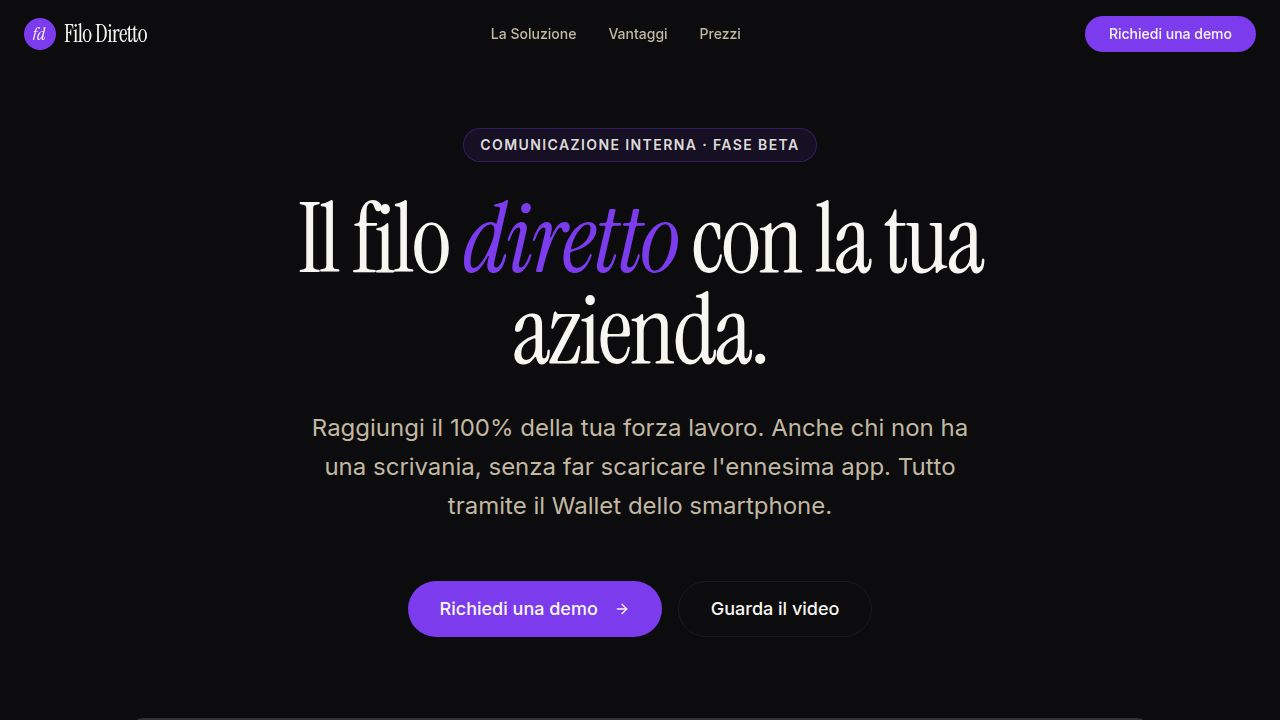
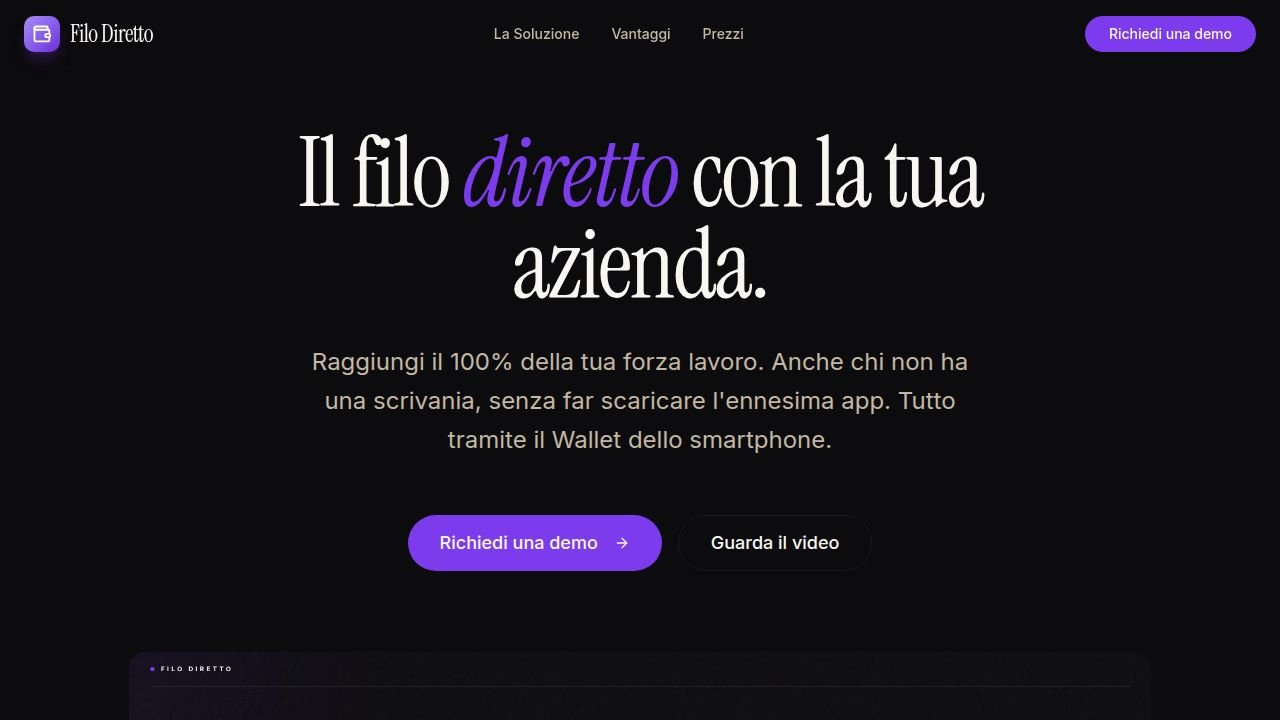
Optimize promotional video and refine consent form
Compress video file to improve loading times and remove unnecessary cookie policy from lead form.

Replit-Commit-Author: Agent
Replit-Commit-Session-Id: e233b0f5-c130-4c3f-b8c2-1a7d95bec6d9
Replit-Commit-Checkpoint-Type: full_checkpoint
Replit-Commit-Event-Id: 0f1d2427-d1de-43a2-881a-8eb35ff1baef
Replit-Commit-Screenshot-Url: https://storage.googleapis.com/screenshot-production-us-central1/c1100ccc-f9ff-4f4b-9f35-a641bddc139c/e233b0f5-c130-4c3f-b8c2-1a7d95bec6d9/hRL0qxZ
Replit-Helium-Checkpoint-Created: true

diff --git a/artifacts/filo-diretto-landing/src/components/landing/lead-form.tsx b/artifacts/filo-diretto-landing/src/components/landing/lead-form.tsx
@@ -250,15 +250,11 @@ export default function LeadForm() {
                 </FormControl>
                 <div className="space-y-1 leading-snug">
                   <label htmlFor="privacy-consent" className="text-sm text-muted-foreground">
-                    Ho letto e accetto la{" "}
+                    Ho letto la{" "}
                     <Link href="/privacy" className="text-primary underline underline-offset-2 hover:text-primary/80">
                       Privacy Policy
                     </Link>{" "}
-                    e la{" "}
-                    <Link href="/cookie" className="text-primary underline underline-offset-2 hover:text-primary/80">
-                      Cookie Policy
-                    </Link>
-                    , e acconsento al trattamento dei miei dati per essere ricontattato.
+                    e acconsento al trattamento dei miei dati per essere ricontattato.
                   </label>
                   <FormMessage />
                 </div>

diff --git a/artifacts/filo-diretto-landing/src/pages/home.tsx b/artifacts/filo-diretto-landing/src/pages/home.tsx
@@ -6,7 +6,7 @@ import LeadForm from "@/components/landing/lead-form";
 import Pricing from "@/components/landing/pricing";
 import Footer from "@/components/landing/footer";
 import Logo from "@/components/landing/logo";
-import promoVideo from "@assets/Filo_Diretto_def_1781470766344.mp4";
+import promoVideo from "@assets/filo-diretto-promo-web.mp4";
 import promoPoster from "@assets/filo-diretto-video-poster.jpg";
 
 const benefits = [

diff --git a/.agents/memory/filo-diretto-video.md b/.agents/memory/filo-diretto-video.md
@@ -1,34 +1,19 @@
 ---
-name: Filo Diretto / HR2Wallet promo video
-description: Brand + structural constraints for the filo-diretto-video artifact (animated HR SaaS explainer).
+name: Filo Diretto promo video
+description: What was checked when the user reported "il video non funziona", and the actual fix.
 ---
 
-The video promotes an HR SaaS ("Filo Diretto" wordmark) whose real marketing brand is **HR2Wallet** (site: hr2wallet.netlify.app). Italian-only audience.
+# Promo video "non funziona"
 
-**Brand to match (editorial style):** black #0A0A0A bg, cream #F4EDE2 text, electric purple #8B5CF6 / #7C3AED accent — NO teal. Display font **Anton** (big condensed headlines), body **Inter**. Magazine/editorial feel, restrained motion. Real concrete copy: "HR parla. Tutti leggono.", 95%+ lettura, zero app, push sulla lock screen, automazioni (compleanni/anniversari/reminder/quiz/survey), pass also works as QR/NFC badge.
-**Why:** the user rejected the first cut (teal + glowy "filo" thread + geometric sans) as off-brand and "grafica scarsa" with overlapping text; they want it aligned to the live site.
-**Naming decision:** keep the wordmark **"Filo Diretto"** (user chose this over "HR2Wallet") even though the site says HR2Wallet.
+The landing's promo `<video>` (in `home.tsx`, section `#soluzione`) is technically sound — repeated "doesn't work" reports were NOT a codec/delivery/markup bug:
 
-**Hard structural constraint — audio sync:** `composite_audio.mp3` is pre-mixed against `SCENE_DURATIONS` (keys/order/values) in VideoTemplate.tsx. Do NOT change scene keys/order/durations without re-mixing the composite (per video-js audio.md: adelay per scene-start+300ms, music vol 0.20). To shorten the WHOLE video (e.g. "accelera tutto, stai in ~80s") apply ONE global speed factor in lockstep across THREE things or it desyncs: (1) re-encode every vo_<scene>.mp3 with ffmpeg `atempo=<factor>` (pitch-preserving, keeps Paolo's voice — far simpler than re-TTS), (2) divide each SCENE_DURATIONS value by the factor, (3) divide every per-scene `setTimeout` phase gate AND framer `delay:` stagger by the factor (else in-scene reveals lag the now-faster narration — the user WILL notice "visual non allineato col parlato"). Also scale long decorative `duration:` animations (image pans, glows). Reveal `duration:` (0.5–1.0s) can stay. **Done once: 98s→~80.4s at factor 1.2.**
-**How to apply:** any future edit that touches scene timing must either keep SCENE_DURATIONS identical or regenerate composite_audio.mp3 in lockstep. Scenes use grid/flex with `pt-28 pb-28` safe padding to clear the persistent top/bottom editorial chrome — keep that to avoid text overlap.
+- Source MP4 is H.264 + AAC, faststart correct (`moov` atom at front, before `mdat`), yuv420p — universally playable.
+- Delivery through the shared proxy returns `Content-Type: video/mp4`, `Accept-Ranges: bytes`, and 206 partial content in both dev and prod. Range playback works.
+- Markup uses `controls playsInline preload="metadata"` with a `poster` — correct.
 
-**Lesson — delegate video-js work to the DESIGN subagent (don't hand-build):** the first two cuts were built directly by the main agent with only text + CSS shapes; the user rejected them as "grafica scarsa", "manca impaginazione", and not "umano". The fix that landed was delegating the iteration to the DESIGN subagent, which generated/downloaded real stock photography of people and produced editorial layouts.
-**Why:** the DESIGN subagent has image-generation / stock-photo / web-search tools the main agent lacks; a "human", produced feel for this product *requires* real imagery of people (hands holding a phone with a lock-screen, work environments), not shapes+type. Hand-built video-js output reads as a slideshow.
-**How to apply:** for any video-js build OR iteration, delegate to the DESIGN subagent per the video-js skill; pass user feedback verbatim + the hard constraints (locked SCENE_DURATIONS, name, don't-touch audio/hooks). Main agent still owns audio (composite mix) and workflow restart/verification afterwards.
+**The real issue was weight.** The original was 1080p / ~33MB / 80s — heavy for the mobile/cellular traffic a paid-ad landing gets, so it could look like it "won't play" (slow start / spinner). Fix: re-encode lighter with ffmpeg and point the `@assets` import at the smaller file:
+`ffmpeg -i IN.mp4 -vf scale=-2:720 -c:v libx264 -profile:v main -pix_fmt yuv420p -crf 26 -preset veryfast -c:a aac -b:a 128k -movflags +faststart OUT.mp4` → ~2.4MB at 720p.
 
-**Content preference — avoid the acronym "HR" in on-screen Italian copy:** the user finds "HR" awkward to pronounce in Italian. Use "Comunicazione Interna", "Pannello Personale", or "L'azienda" instead. The product wordmark stays "Filo Diretto".
-**Feature beats the user wants emphasized (employee-facing):** badge (the wallet pass doubles as NFC/QR company badge, works offline), engagement (real, measured), reward (premi erogati), and especially **100% legal/privacy compliance** ("a norma di privacy") — the legal-reassurance beat matters most when addressing employees, so give it clear visual weight, not a footnote.
+**Why:** content is motion-graphics/text, so it compresses extremely well; quality stays fine while load time drops dramatically.
 
-**Spoken copy lives in the recorded voiceover, not the on-screen text.** Changing scene JSX does NOT change what the narrator says. The Italian VO is per-scene (public/audio/vo_<scene>.mp3) in voice "Paolo" (voiceId `mcMi8FJDhg35bMpWHv2R`, model eleven_multilingual_v2, settings stability 0.5 / similarity 0.75 / style 0.3 / speaker_boost). **Generate VO via the media-generation `textToSpeech({text, voiceId, outputPath, voiceSettings})` callback in code_execution — NOT an ElevenLabs connector** (`listConnections('elevenlabs')` returns 0; the managed TTS service is what's used). To change a spoken word, regenerate ONLY that vo_<scene>.mp3 with the SAME voiceId (keep duration under the scene window minus ~0.4s tail), then rebuild public/audio/composite_audio.mp3.
-**Composite recipe (CURRENT = 8 scenes, ~80.4s after the 1.2x speed-up):** order/durations in SCENE_DURATIONS are context8400 / problem10000 / intro8400 / dashboard12000 / wallet11600 / push11600 / analytics10000 / outro8400 → total 80400ms. ffmpeg: `-stream_loop -1 -i bg_music.mp3` (music is only 90s, loop covers the runtime) at volume 0.20; each VO volume 1.0 with adelay=sceneStart+300ms at starts 0/8400/18400/26800/38800/50400/62000/72000 ms (i.e. adelay 300/8700/18700/27100/39100/50700/62300/72300); amix inputs=9 duration=longest normalize=0; clamp `-t 80.4`. VideoTemplate computes SCENE_START_SEC from SCENE_DURATIONS order automatically, so durations + composite must move in lockstep. To re-derive offsets for any new durations: cumulative sum of the (post-scale) durations, +300ms lead-in each.
-
-**Scene safe-area: every scene must clear the fixed editorial chrome.** VideoTemplate renders a top bar (~48px) and a bottom bar with the progress dots/label (~57px) as fixed overlays. Scene content sits inside `py-20`-ish padding; do NOT add an extra `pt-10` on the text column on top of a `justify-center` container — it biases content downward and makes photos/text sit "troppo attaccato sotto" (too close to the bottom bar). Keep content vertically centered, and for full-height photo columns give a slightly larger bottom padding (e.g. pb-28) than top. Floating cards over a photo panel (Scene4 pass/badge) must keep a generous right margin (~16% of the half-width container) so they don't get clipped by the panel's overflow-hidden / read as overflowing the frame.
-
-**Avoid overflow-prone Tailwind on scene visuals.** When enlarging a scene's main visual (dashboard mockup, pass card), do NOT use `h-[110%]` + `transform scale-110` + negative margins (`-mr-12`) to make it "bigger" — that bleeds past the px-24/py-20 safe padding into the fixed top/bottom chrome and frame edges (the user's recurring complaint). Instead enlarge with explicit sizes (`h-[500px]`, larger `w-[..px]`) kept inside `h-full`/the safe padding. For floating accent chips placed over a card (e.g. "Convenzioni locali" pill on the pass), check it doesn't land on the card's QR/content — keep the card slightly higher (`top-[42%]`) and the chip low/left (`bottom-[6%] left-[8%]`) so they don't overlap.
-
-**Layout must hold at any resolution, not just 1280×720.** The video is authored/verified at 1280 but the canvas iframe and the recording harness render the live DOM at larger sizes (e.g. 1920) — overflow only appears there. Two durable rules learned from the "errori di impaginazione at 1920" bug:
-- **Never size scene headlines with raw viewport units (`text-[Nvw]`)** when body text/spacing are fixed px — the headline balloons ~50% at 1920 and shoves stacked content into the fixed bottom chrome. Always `clamp(minPx, Nvw, maxPx)` with the cap near the authored-1280 px value so 1280 is unchanged and 1920 can't overflow.
-- **Never put two `position` utilities on one element** (e.g. `absolute … relative`). Class order in the string is irrelevant; Tailwind's CSS defines `relative` after `absolute` so `relative` wins, silently keeping a meant-to-be-absolute panel in flow where it pushes siblings off-frame. Grep `rg 'absolute.*relative"'` after layout edits.
-- **Reliable way to screenshot one mid-timeline scene fully-revealed at a target size:** the plain `screenshot` tool only shows the first scene at t≈0 and races opacity transitions; `runTest` drifts and often returns no paths. Deterministic method = temporarily reorder SCENE_DURATIONS so the scene is first AND force-reveal it (max `useState` phase + set every motion `initial` to its revealed value — useState alone isn't enough), then revert all temp edits. **Why:** verified the clamp fix alone was insufficient and only the forced-reveal shot exposed the real absolute/relative overflow.
-
-**Badge & notifications are shown inside a reusable PhoneFrame device mockup.** There is a shared `src/components/video/PhoneFrame.tsx` (portrait device bezel + dynamic island; `children` render on the screen). Scene4 renders the Wallet pass on the phone screen; Scene5 renders the lock-screen notifications on it. Keep this device-mockup approach for any future "su un telefono" requests rather than floating bare cards. The phone is ~270x550 and sits in the right 50% panel — that height nearly fills the safe area, so do NOT make the phone taller or it will hit the fixed top/bottom chrome. Floating accent chips (e.g. "Convenzioni locali") should overlap the phone's lower edge, never the on-screen pass/QR content.
+**Discrepancy with `replit.md`:** the README claims the landing embeds the explainer via an iframe to `/video/`. It does NOT — there is no iframe; the landing uses a direct `<video>` MP4. The `/video/` artifact (video-js) runs but is not referenced by the landing. Don't trust the iframe claim; grep `home.tsx` for the real wiring.

diff --git a/.agents/memory/MEMORY.md b/.agents/memory/MEMORY.md
@@ -1,1 +1,1 @@
-- [Resend email](resend-email.md) — lead form sends notify+confirm via Resend; account's sending domains (filodiretto.app, preciseadvertising.tech) are already verified, no DNS setup needed.
+- [Filo Diretto promo video](filo-diretto-video.md) — "video non funziona" was weight (1080p/33MB), not codec/delivery; re-encode to 720p faststart. Landing has NO /video/ iframe despite replit.md.